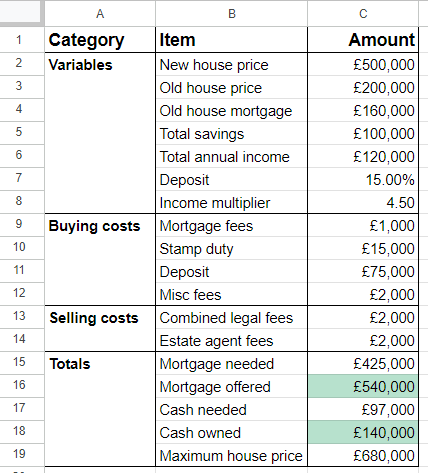
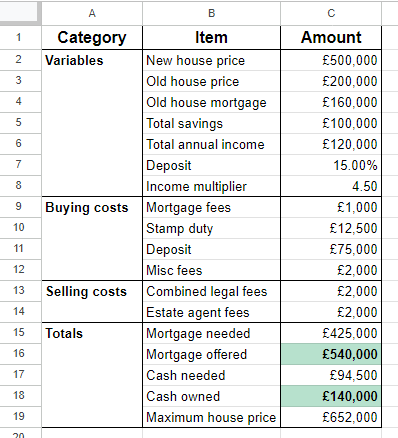
Double checking formulas & publishing

Changed region(s): [[0.0, 0.0, 1.0, 1.0], [0.0905, 0.742, 0.2111, 0.8014]]

diff --git a/_posts/2023-07-15-house-affordability-spreadsheet.md b/_posts/2023-07-15-house-affordability-spreadsheet.md
@@ -63,7 +63,9 @@ Here's an explanation behind each field:
 ### Buying costs
 
 * **Mortgage fees**: When comparing mortgages, quite a few will add £999 in fees, this is worth factoring in.
-* **Stamp duty**: The bands for stamp duty can change, so I recommend double-checking the result with [a real calculator](https://www.stampdutycalculator.org.uk/).
+* **Stamp duty**: The bands for stamp duty can change, so I recommend double-checking the result with [a real calculator](https://www.stampdutycalculator.org.uk/). I used a formula from Microsoft forums[^stamp-duty-formula], the results matched the real calculator for all values I tried.
+
+[^stamp-duty-formula]: <https://techcommunity.microsoft.com/t5/excel/stamp-duty-calculation/m-p/3775797/highlight/true#M185945>
 
 ### Selling costs
 
